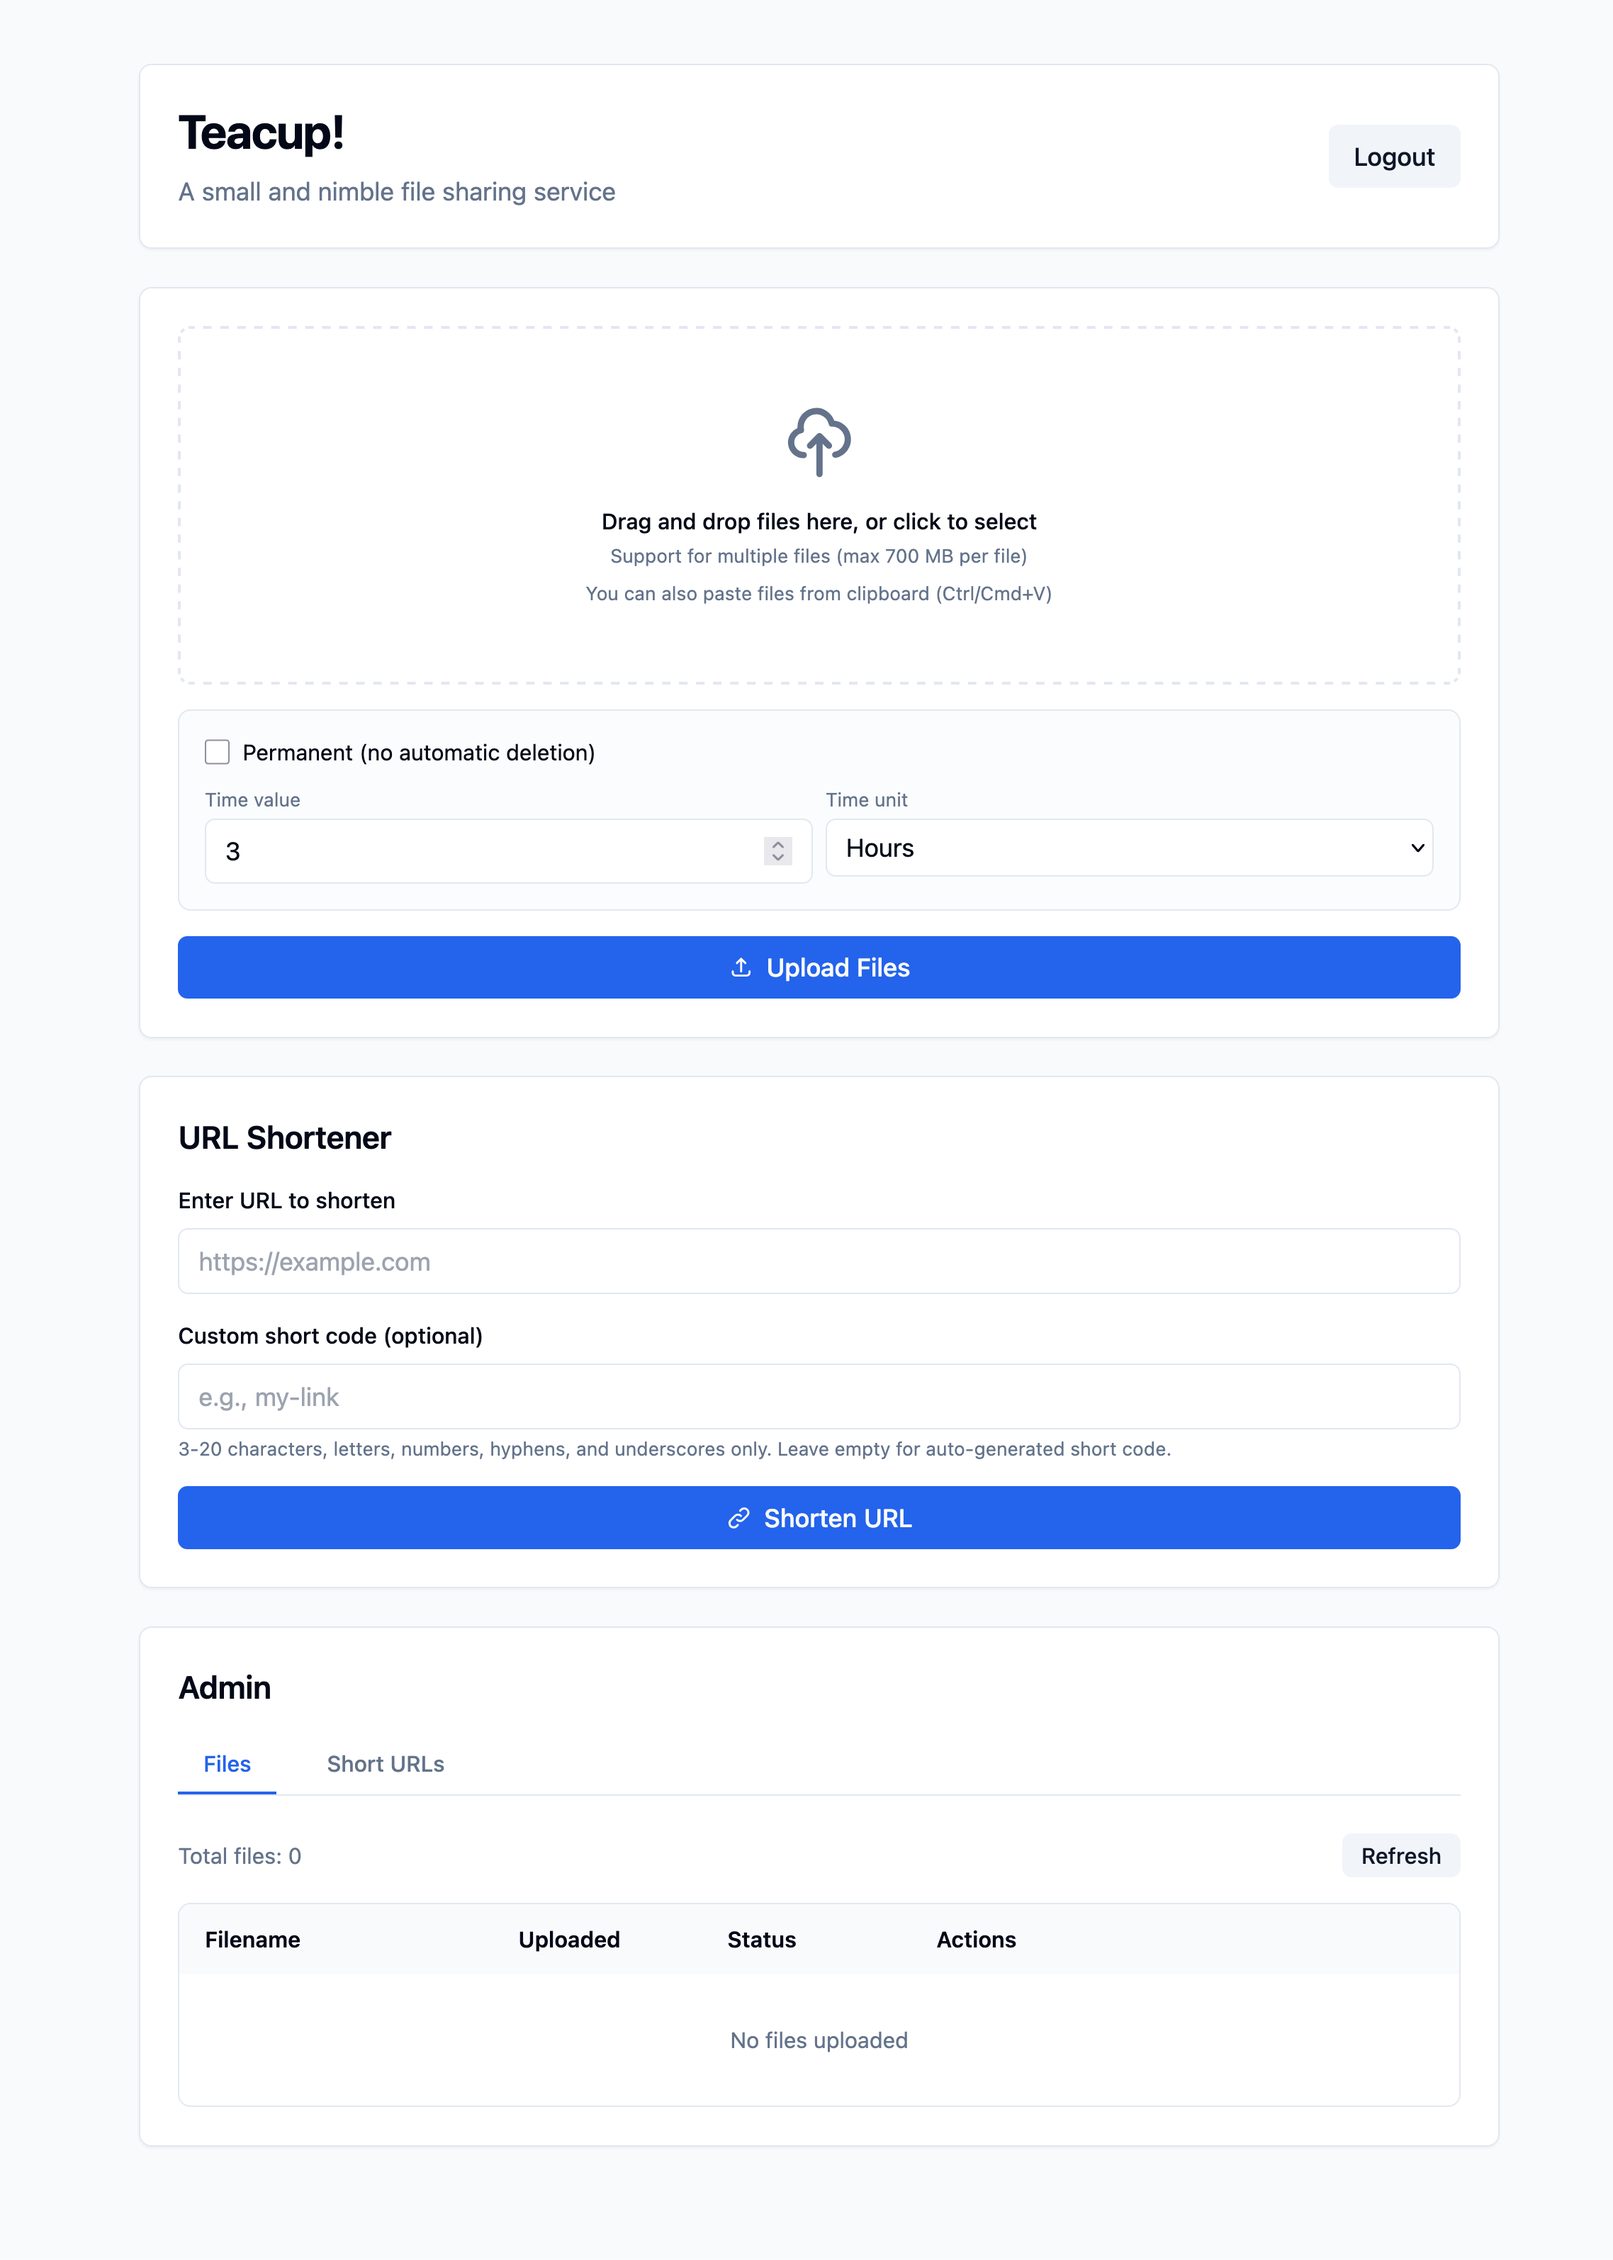
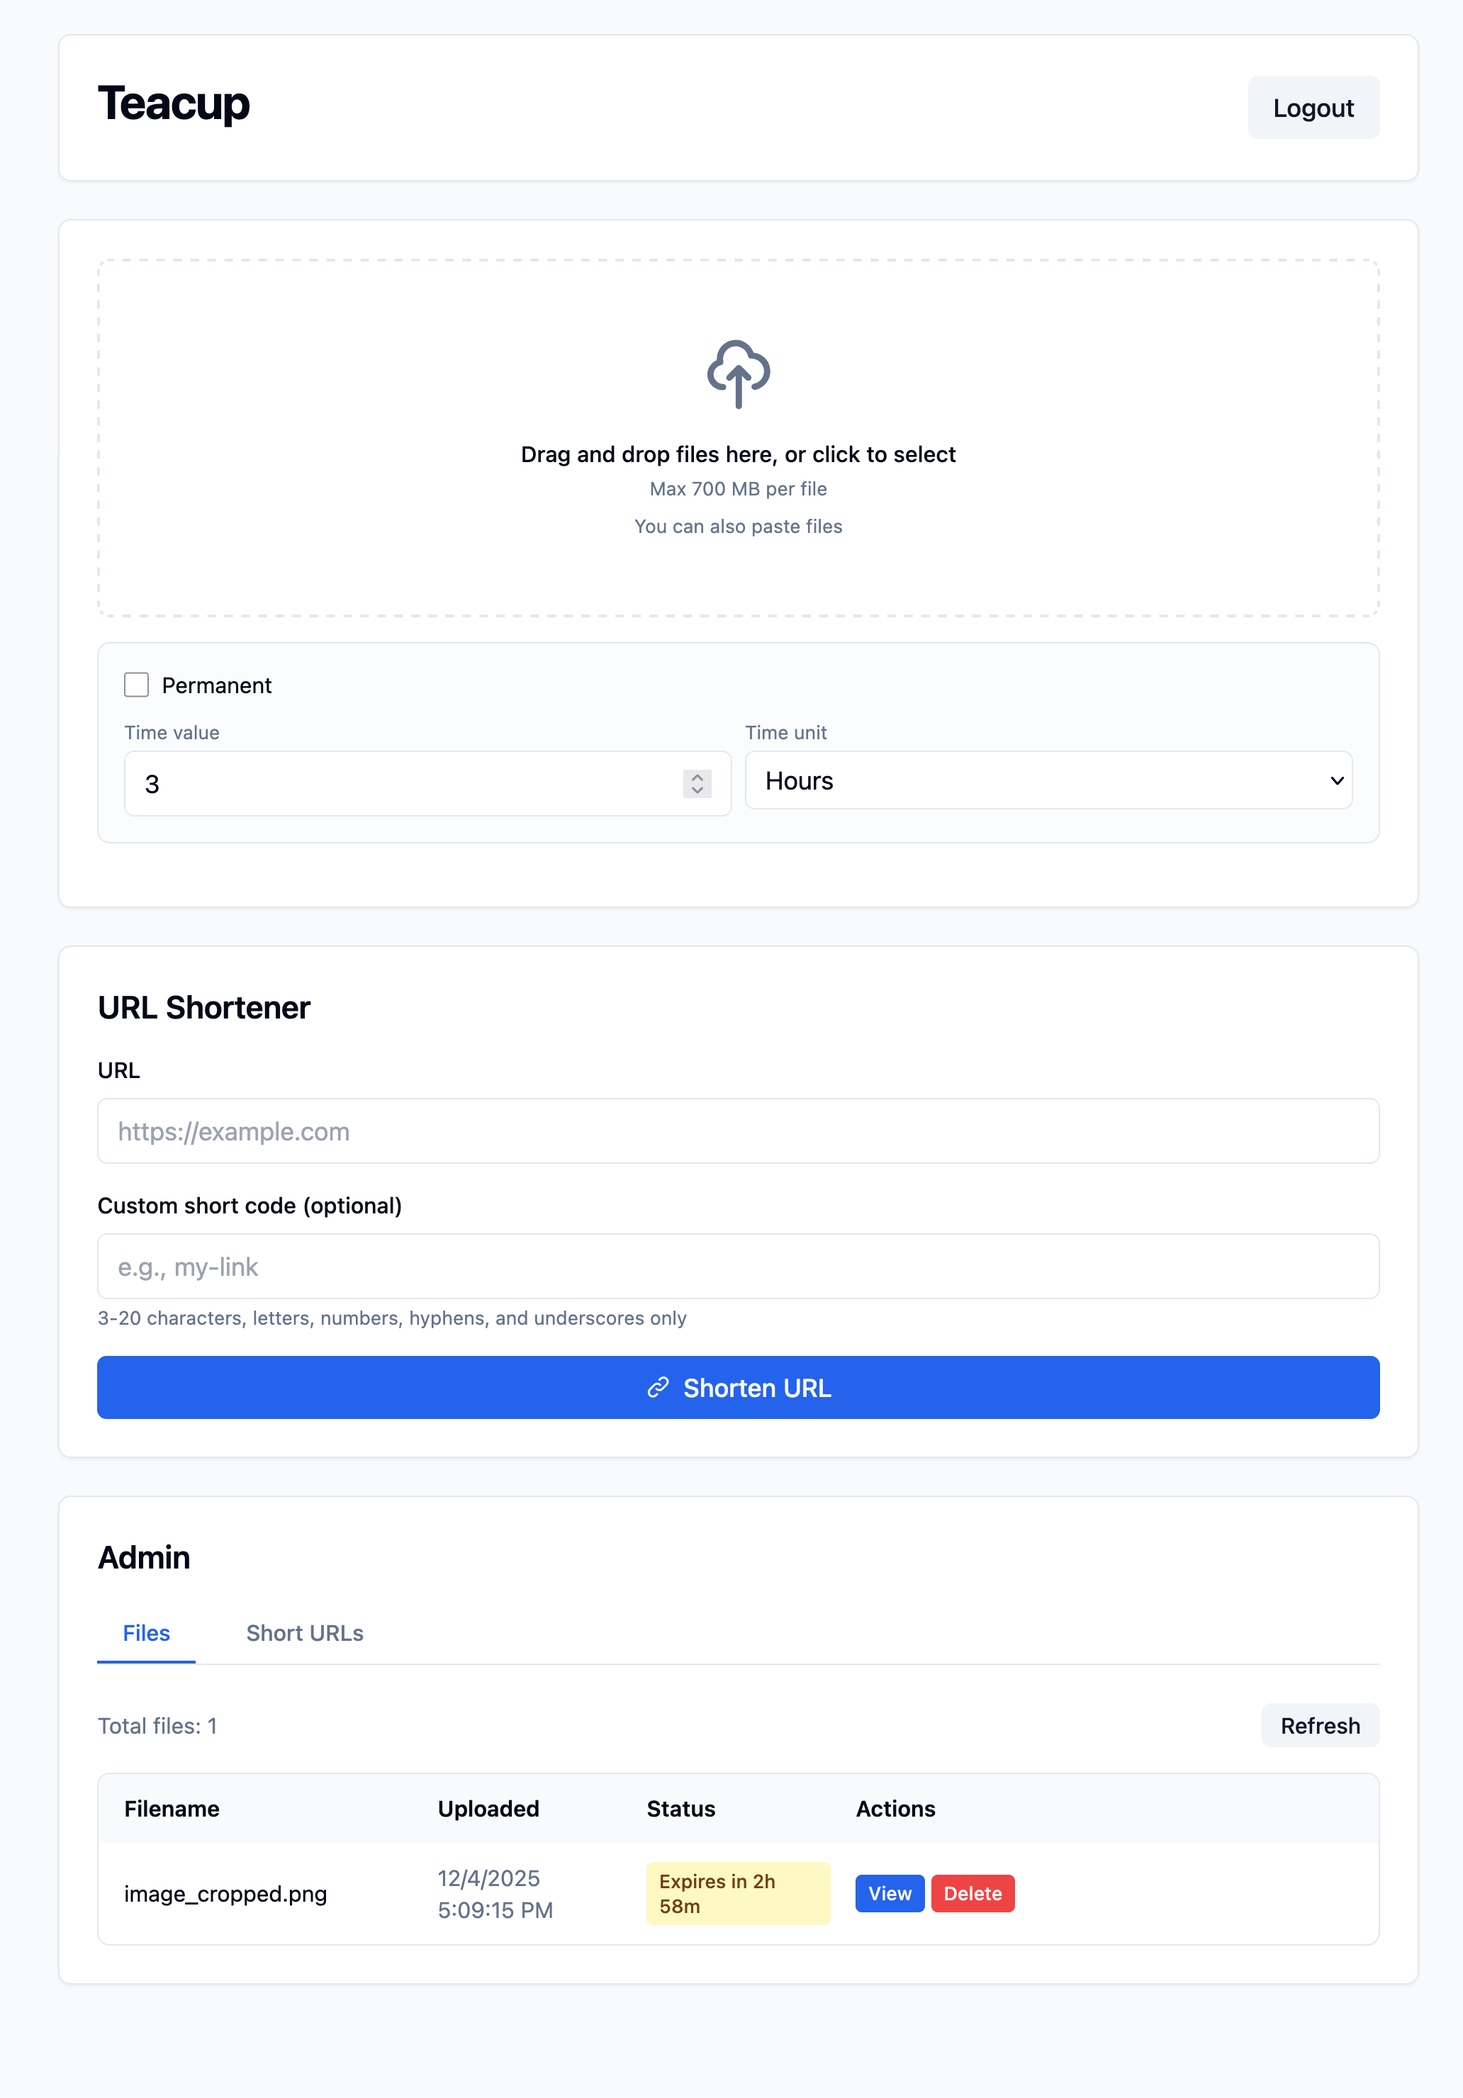
remove upload button

diff --git a/index.html b/index.html
@@ -155,7 +155,7 @@
                 <div class="bg-secondary/30 border border-border rounded-lg p-4 mb-4 space-y-3">
                     <div class="flex items-center space-x-2">
                         <input id="permanent" type="checkbox" class="h-4 w-4">
-                        <label for="permanent" class="text-sm">permanent</label>
+                        <label for="permanent" class="text-sm">Permanent</label>
                     </div>
                     <div id="ttlControls" class="grid grid-cols-2 gap-2">
                         <div>
@@ -172,22 +172,6 @@
                         </div>
                     </div>
                 </div>
-
-                <!-- Upload Button -->
-                <button 
-                    type="submit" 
-                    id="uploadBtn"
-                    class="w-full bg-primary text-primary-foreground hover:bg-primary/90 font-medium py-2 px-4 rounded-md transition-colors disabled:opacity-50 disabled:cursor-not-allowed inline-flex items-center justify-center"
-                >
-                    <svg id="uploadIcon" class="w-4 h-4 mr-2" fill="none" stroke="currentColor" viewBox="0 0 24 24">
-                        <path stroke-linecap="round" stroke-linejoin="round" stroke-width="2" d="M4 16v1a3 3 0 003 3h10a3 3 0 003-3v-1m-4-8l-4-4m0 0L8 8m4-4v12"></path>
-                    </svg>
-                    <span id="uploadText">Upload Files</span>
-                    <svg id="spinner" class="hidden w-4 h-4 mr-2 animate-spin" fill="none" viewBox="0 0 24 24">
-                        <circle class="opacity-25" cx="12" cy="12" r="10" stroke="currentColor" stroke-width="4"></circle>
-                        <path class="opacity-75" fill="currentColor" d="M4 12a8 8 0 018-8V0C5.373 0 0 5.373 0 12h4zm2 5.291A7.962 7.962 0 014 12H0c0 3.042 1.135 5.824 3 7.938l3-2.647z"></path>
-                    </svg>
-                </button>
             </form>
         </div>
 
@@ -357,10 +341,6 @@
         const dropZone = document.getElementById('dropZone');
         const fileInput = document.getElementById('fileInput');
         const uploadForm = document.getElementById('uploadForm');
-        const uploadBtn = document.getElementById('uploadBtn');
-        const uploadText = document.getElementById('uploadText');
-        const uploadIcon = document.getElementById('uploadIcon');
-        const spinner = document.getElementById('spinner');
         const results = document.getElementById('results');
         const loginCard = document.getElementById('loginCard');
         const uploadCard = document.getElementById('uploadCard');
@@ -656,10 +636,6 @@
             }
             
             fileSizeError.classList.add('hidden');
-            uploadBtn.disabled = true;
-            uploadText.textContent = 'Uploading...';
-            uploadIcon.classList.add('hidden');
-            spinner.classList.remove('hidden');
             
             // Create progress bars for each file
             const filesArray = Array.from(fileInput.files);
@@ -755,10 +731,6 @@
                                 <p class="text-sm mt-1">Please login again to upload files.</p>
                             </div>
                         `;
-                        uploadBtn.disabled = false;
-                        uploadText.textContent = 'Upload Files';
-                        uploadIcon.classList.remove('hidden');
-                        spinner.classList.add('hidden');
                         fileInput.value = '';
                         return;
                     }
@@ -771,10 +743,6 @@
                                 <p class="text-sm mt-1">Server error (${xhr.status})</p>
                             </div>
                         `;
-                        uploadBtn.disabled = false;
-                        uploadText.textContent = 'Upload Files';
-                        uploadIcon.classList.remove('hidden');
-                        spinner.classList.add('hidden');
                         fileInput.value = '';
                         return;
                     }
@@ -789,10 +757,6 @@
                                 <p class="text-sm mt-1">Failed to parse server response</p>
                             </div>
                         `;
-                        uploadBtn.disabled = false;
-                        uploadText.textContent = 'Upload Files';
-                        uploadIcon.classList.remove('hidden');
-                        spinner.classList.add('hidden');
                         fileInput.value = '';
                         return;
                     }
@@ -890,10 +854,6 @@
                         `;
                     }
                     
-                    uploadBtn.disabled = false;
-                    uploadText.textContent = 'Upload Files';
-                    uploadIcon.classList.remove('hidden');
-                    spinner.classList.add('hidden');
                     fileInput.value = '';
                 });
                 
@@ -905,10 +865,6 @@
                             <p class="text-sm mt-1">Network error occurred</p>
                         </div>
                     `;
-                    uploadBtn.disabled = false;
-                    uploadText.textContent = 'Upload Files';
-                    uploadIcon.classList.remove('hidden');
-                    spinner.classList.add('hidden');
                     fileInput.value = '';
                 });
                 
@@ -919,10 +875,6 @@
                             <p class="font-medium">Upload cancelled</p>
                         </div>
                     `;
-                    uploadBtn.disabled = false;
-                    uploadText.textContent = 'Upload Files';
-                    uploadIcon.classList.remove('hidden');
-                    spinner.classList.add('hidden');
                     fileInput.value = '';
                 });
                 
@@ -936,10 +888,6 @@
                         <p class="text-sm mt-1">${escapeHtml(err.message)}</p>
                     </div>
                 `;
-                uploadBtn.disabled = false;
-                uploadText.textContent = 'Upload Files';
-                uploadIcon.classList.remove('hidden');
-                spinner.classList.add('hidden');
                 fileInput.value = '';
             }
         });

diff --git a/README.md b/README.md
@@ -1,8 +1,6 @@
-My take on a simple temp file 
-
 ![Interface](assets/interface.png)
 
-# Usage:
+# Usage
 
 Fill out the .env.example and remove the .example
 
